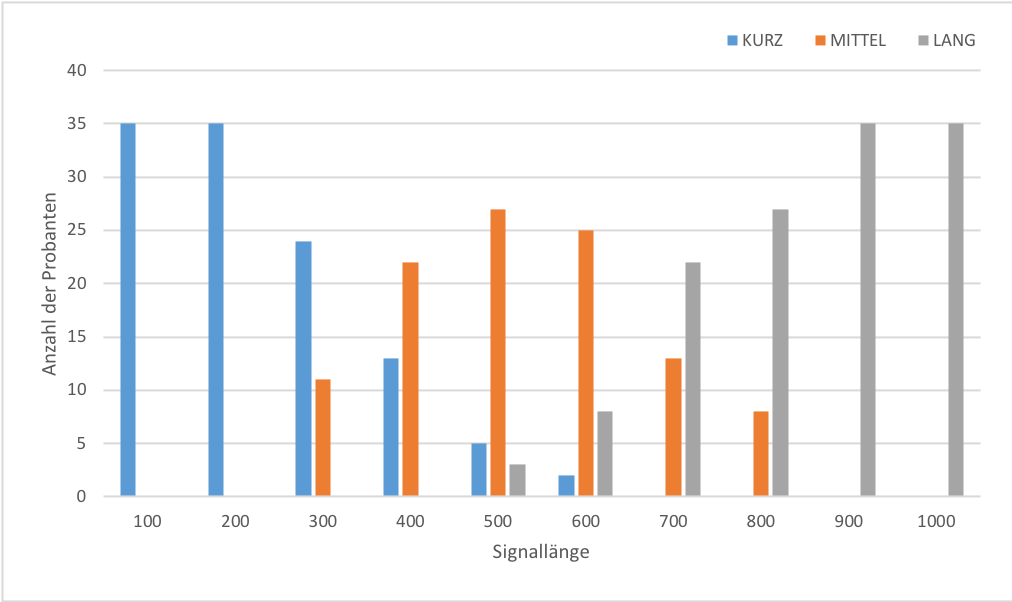
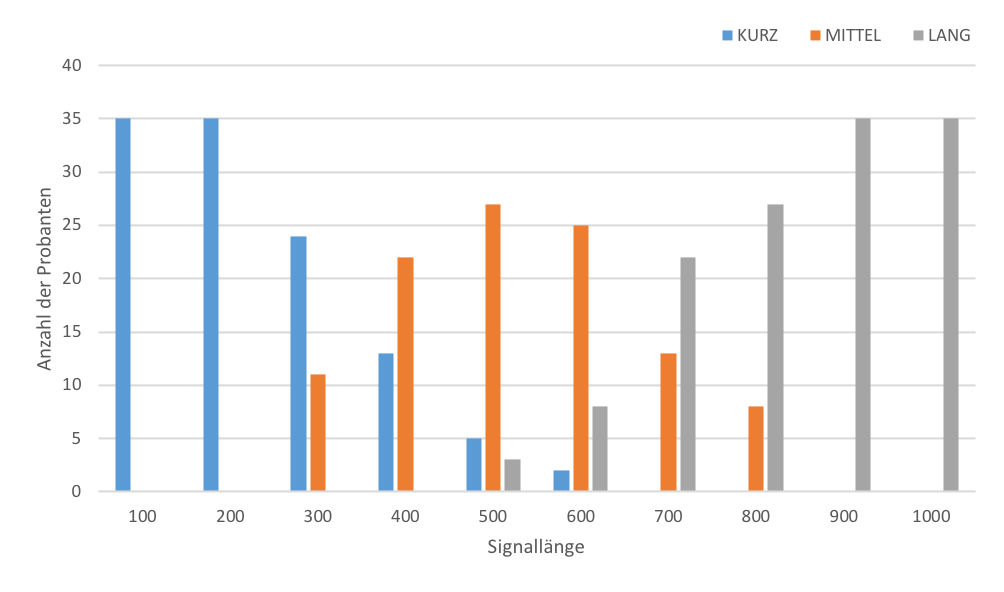
grundlagen EA & ränder bei bildern entfernt

diff --git a/ausarbeitung/chapter/02grundlagen/022genetischeralgorithmus.tex b/ausarbeitung/chapter/02grundlagen/022genetischeralgorithmus.tex
@@ -114,10 +114,28 @@ Das dadurch erzeugte Ergebnis ist eine n{\"a}herungsweise L{\"o}sung f{\"u}r das
 Es gibt verschiedene Darstellungsm{\"o}glichkeiten von Genen, die meist verwendeten Darstellungen werden im Folgenden erläutert. 
 Das wissen, wurde aus der Ausarbeitung von \cite{flickevolutionare, shiffman2012nature, DillmannZoeller2017} entnommen.
 
+\paragraph{Lineare Repr{\"a}sentation}
 Eine \textbf{Lineare Repr{\"a}sentation} besteht aus einer Folge $a_{0}a_{1}a_{2}...a_{n-1}$ von Symbolen einer fester L{\"a}nge, die aus einer definierten Symbolmenge $V$ entnommen wurde, dabei ist $a_{i} \in V$.   
 
 Die bin{\"a}re Repr{\"a}sentation besitzt die Symbolmenge $V$ = {0,1} und ist die meist verwendete \textit{lineare Repr{\"a}sentation}. 
 Dabei sieht eine binäre Repräsentation wie in \autoref{fig:binar8} aus.
+
+Falls man nur aus einem Elternteil ein Nachkomme erzeugen soll, wird dabei die Rekombination übersprungen und es wird mit der Mutation fortgefahren. Es gibt 2 Möglichkeiten die Nachfolger der zwei Eltern zu erzeugen. Bei der \textit{diskrete Rekombination} wählt man die Werte eines Gens für das Nachkommen aus, die für besser geeignet sind. Am Beispiel \autoref{tabelleBeispiel} wurden jeweils immer nur die kleineren Werte für das Nachkommen ausgewählt. Die andere Möglichkeit ist die \textit{intermediäre Rekombination} anhand der Gene beider Elternteile wird der Durchschnitt von beiden Werten berechnet und als Gen für den Nachkommen weitergegeben.
+
+\begin{table}[]
+\centering
+\caption{Dirskete und intermediäre Rekombination}
+\label{tabelleBeispiel}
+\begin{tabular}{l|llll}
+Elternteil A          & 0,3  & 0,9  & 0,1  & 0,5 \\
+Elternteil B          & 0,6  & 0,2  & 0,8  & 0,5 \\ \hline
+Nachkomme dirket      & 0,3  & 0,2  & 0,1  & 0,5 \\ \hline
+Nachkomme intermediär & 0,45 & 0,55 & 0,45 & 0,5
+\end{tabular}
+\end{table}
+
+Die Rekombination einer Rekombination kann auf verschiedensten Arten repräsentiert werden. 
+Dabei werden zwei oder mehrere Eltern miteinander gemischt.
 
 \begin{figure}
 	\centering
@@ -126,8 +144,21 @@ Dabei sieht eine binäre Repräsentation wie in \autoref{fig:binar8} aus.
     \label{fig:binar8}
 \end{figure}
 
+\paragraph{Baumstrukturen}
+F{\"u}r \textbf{baumartige Strukturen}, wird die Genetische Programmierung verwendet. Man verwendet bei die baumartigen Strukturen um Formeln oder Programme zu repräsentieren. Die Selektion, Rekombination und Mutation muss auf der Baumstruktur ausgeführt werden.
+Als Beispiel für eine Baumstuktur repräsentiert \autoref{fig:baumstruktur} die $4 - 23 * 2$.
 
-F{\"u}r baumartige Strukturen, wird Genetisches Programmieren verwendet.
+\begin{figure}
+	\centering
+    \includegraphics{pics/grundlage/baumstruktur.png}
+    \caption{Darstellung einer binären Repräsentation der Länge 8}
+    \label{fig:baumstruktur}
+\end{figure}
+
+
+
+
+
 
 %Die Symbolmenge $V$ = {0,1} ist die bin{\"a}re Repr{\"a}sentation, die f{\"u}r Genetische Algorithmen verwendet werden.
 %Die Bin{\"a}rcodierung wird die bin{\"a}re Repr{\"a}sentation, die eine Zeichenkette von nur Nullen oder Einsen ist, oft als Repr{\"a}sentation von Genen verwendet. 
